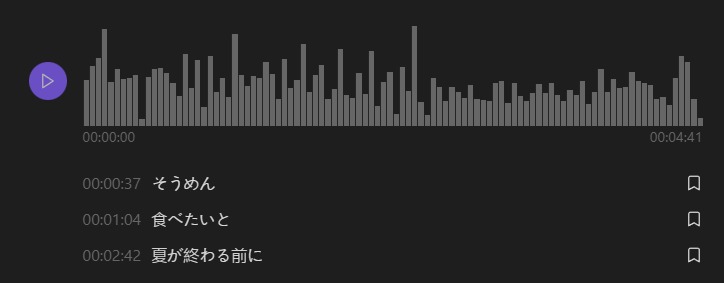
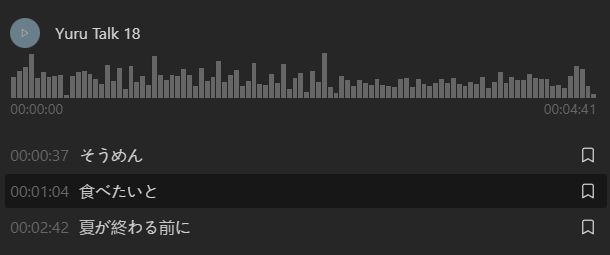
Update readme. Add parameter explanation / new screenshot of updated player css

diff --git a/README.md b/README.md
@@ -13,6 +13,7 @@
 ````
 ```audio-player
 audio: [[my_audio.ogg]]
+title: Yuru Talk 18
 
 00:00:37 --- Section 1
 00:02:42 --- Section 2
@@ -35,6 +36,13 @@ type: small
 this will only play the given chapter (00:00:37 - 00:01:06) of the given audio file.
 
 ![image](/preview/mini.png)
+
+### Options
+
+-   `audio` - Internal obsidian link to the audio file
+-   `title` - Optional: Title to display
+-   `type` - Optional: Set to 'small' for smaller player
+-   `chapter` - Optional: Part of the audio to play
 
 ### Two simple Commands
 
